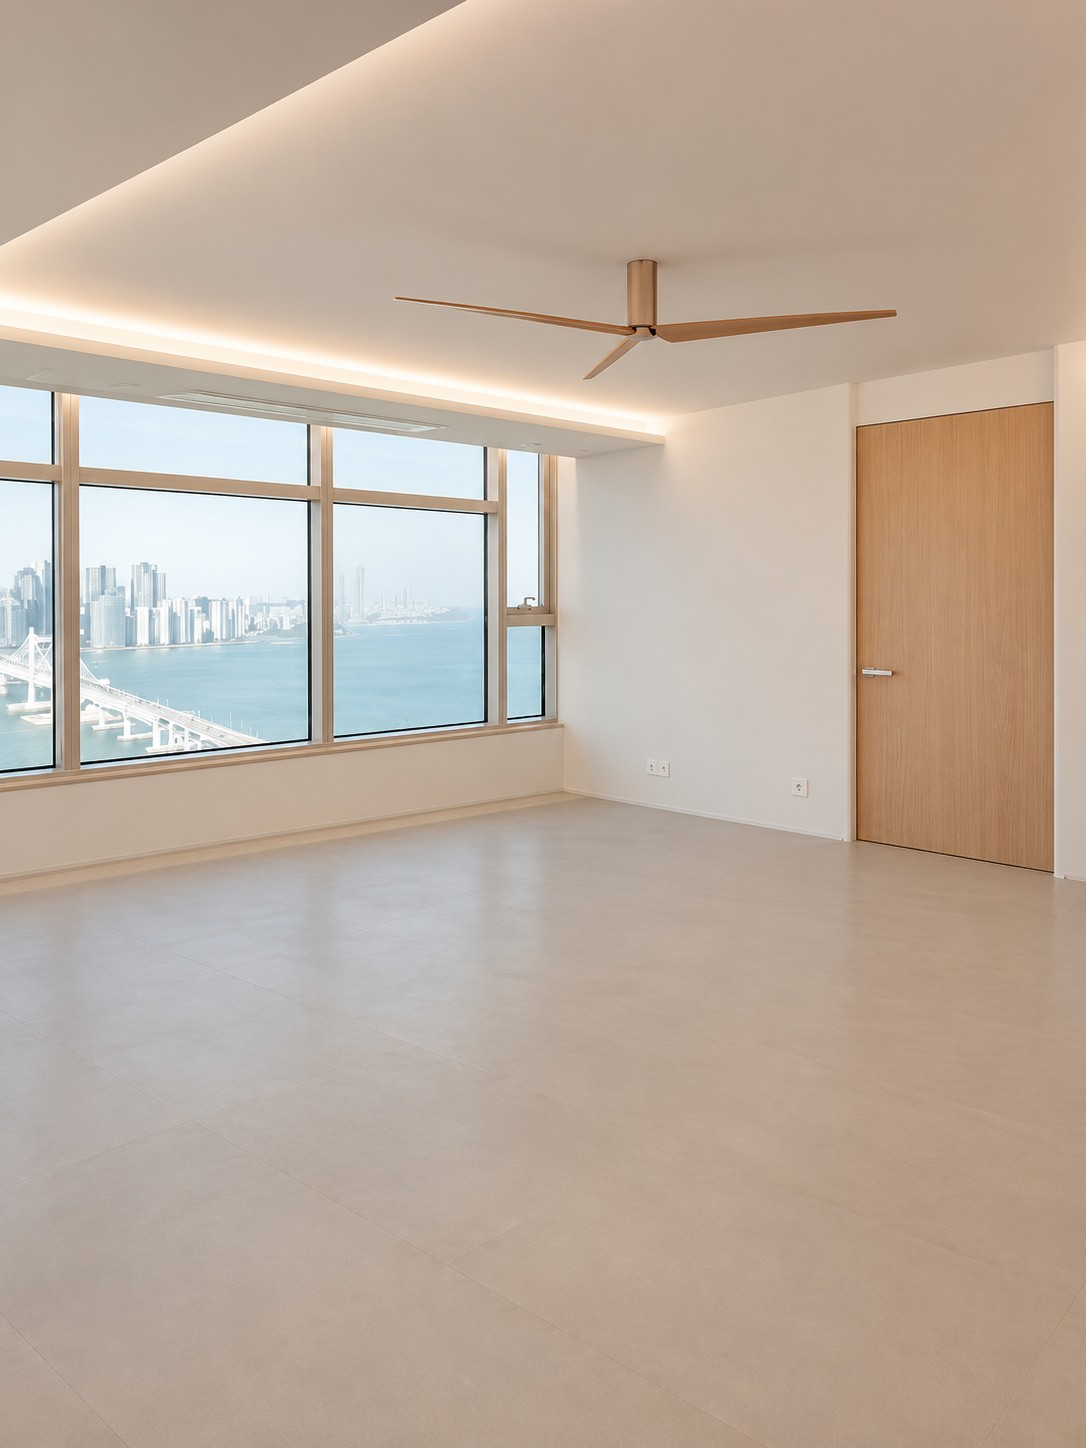
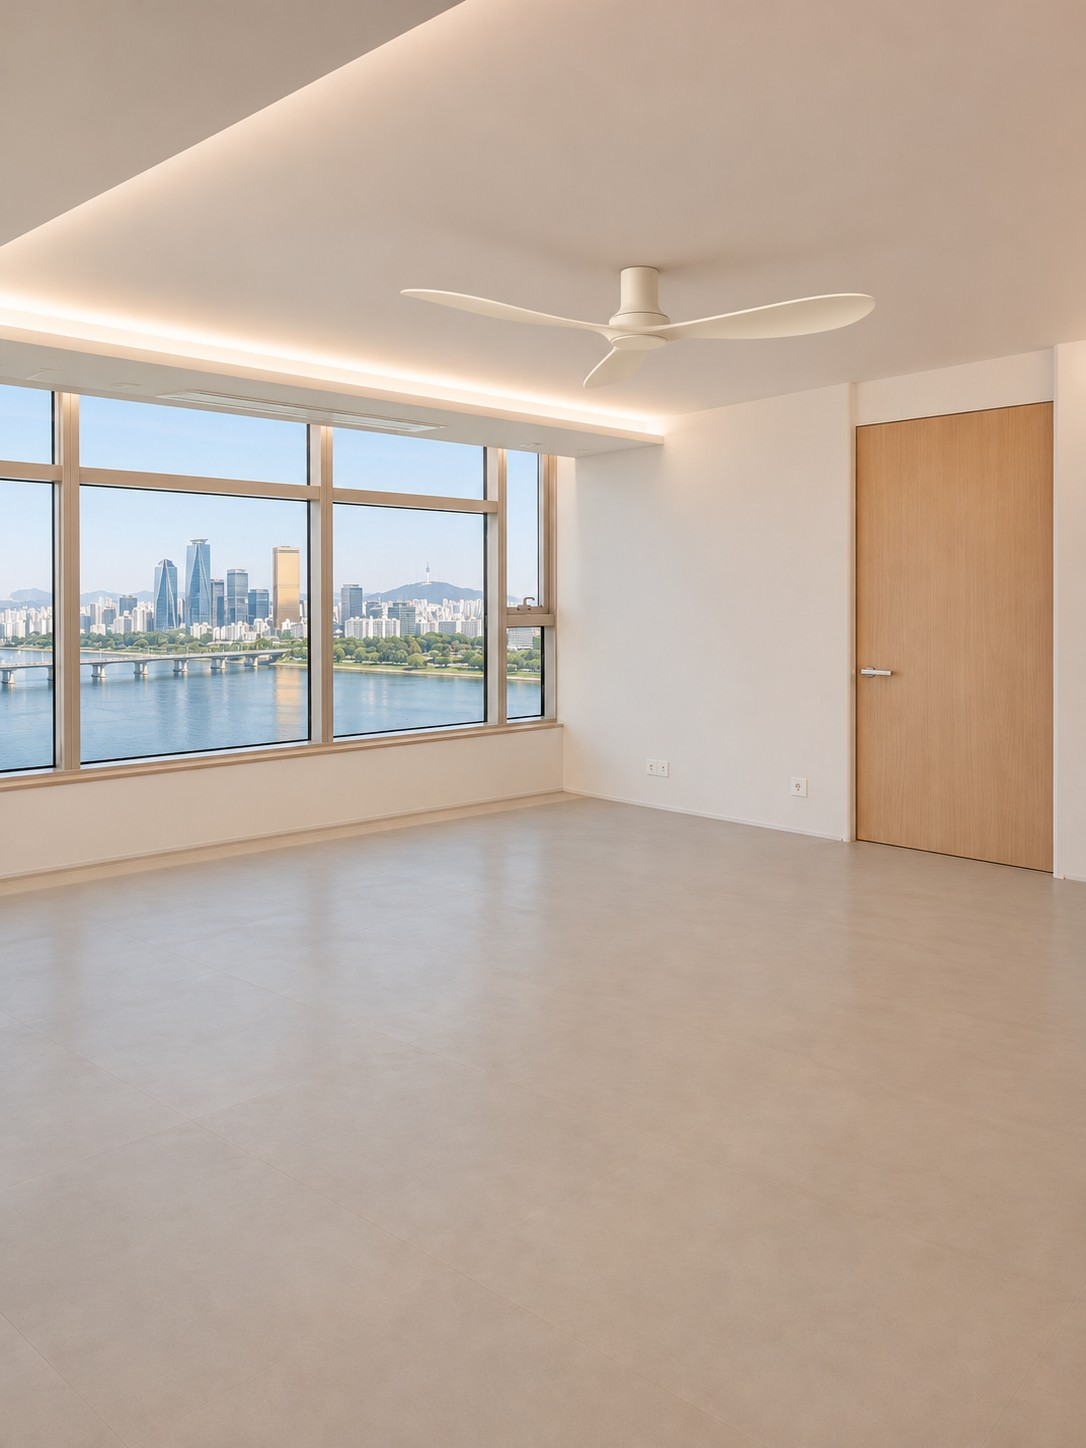
예시 방 사진을 창밖 풍경만 바뀐 사진으로 교체
Claude-Session: https://claude.ai/code/session_01BGqePryQZJy6PENTDoZnm5

diff --git a/index.html b/index.html
@@ -452,10 +452,10 @@ input[type=range]{width:100%;accent-color:var(--accent);height:28px}
 </div>
 
 <!-- products.js, refine.js, orient.js, camera.js 를 고치면 아래 v= 값과 VERSION 값을 같이 올려야 손님 폰에 바로 반영됨 -->
-<script src="products.js?v=2026.11.12g"></script>
-<script src="refine.js?v=2026.11.12g"></script>
-<script src="orient.js?v=2026.11.12g"></script>
-<script src="camera.js?v=2026.11.12g"></script>
+<script src="products.js?v=2026.11.12h"></script>
+<script src="refine.js?v=2026.11.12h"></script>
+<script src="orient.js?v=2026.11.12h"></script>
+<script src="camera.js?v=2026.11.12h"></script>
 <script>
 (function(){
 "use strict";
@@ -471,7 +471,7 @@ const FLOORISH=new Set(["floor","flooring"]);
 /* 창문, 문, 바깥 풍경: 이 둘레에 떨어져 있는 바닥 조각은 베란다나 창밖으로 봄 */
 const OPENING=new Set(["windowpane","door","screen door","curtain","blind","railing","bannister","fence","sky","building","skyscraper","house","tree","mountain","hill","palm"]);
 const HEIC_URL="https://cdn.jsdelivr.net/npm/heic2any@0.0.4/dist/heic2any.min.js";
-const VERSION="2026.11.12g";
+const VERSION="2026.11.12h";
 const bust=u=>u+(u.indexOf("?")<0?"?":"&")+"v="+VERSION;
 const PICK_KEY="floorPickAt";
 
